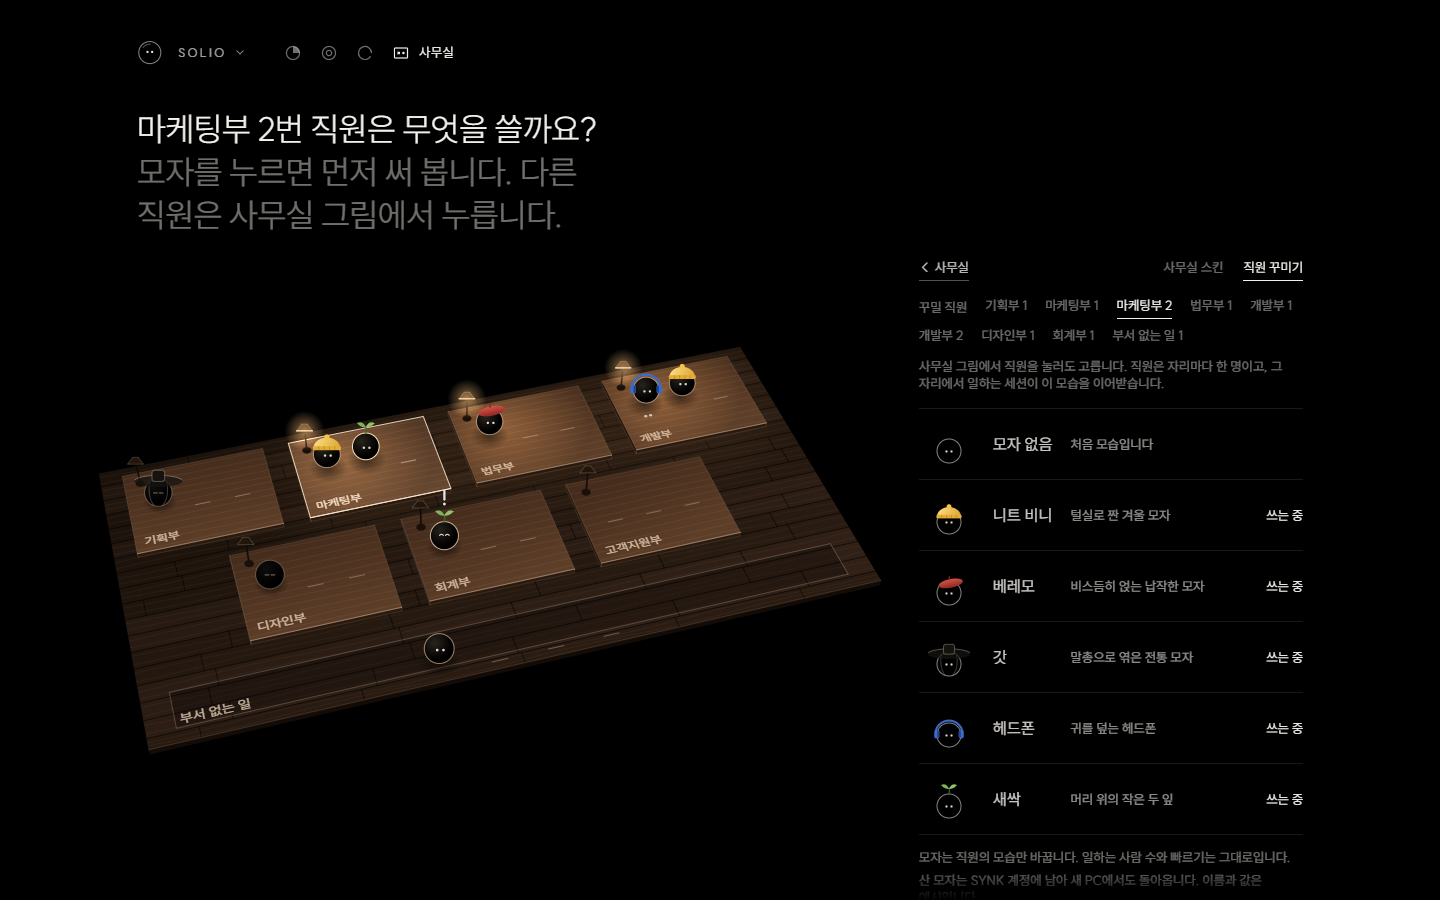
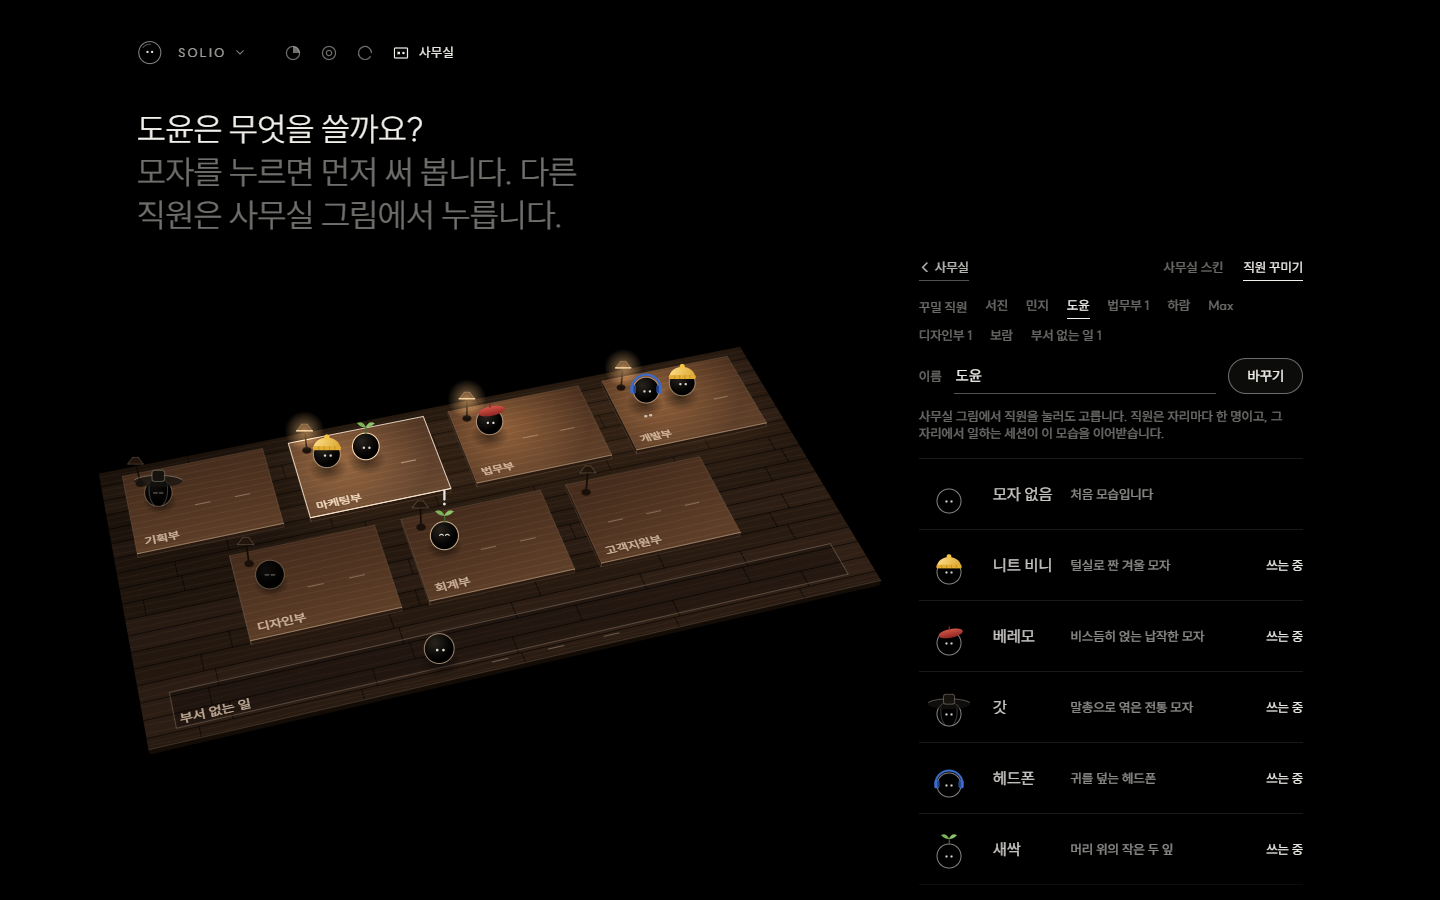
솔리오 사무실 꾸미기 시안: 직원 이름을 바꿀 수 있게 했다(유호님 11-23 「직원 이름도 바꿀수있게해줘」). 가게의 「직원 꾸미기」에서 고른 직원의 「이름」 칸을 고치고 「바꾸기」를 누른다. 처음 이름은 「마케팅부 2」이고 12자까지 무료다. 비우면 처음 이름으로 돌아간다. 바꾼 이름은 가게의 직원 줄, 맨 위 문장, 부서를 열었을 때의 직원 줄(이름 아래에 도구와 모델)에 쓰이고, 사무실 그림 위에는 쓰지 않는다. 「바꾸기」는 이름을 고쳤을 때만 흰 알약이 된다. 바꾸기 · 되돌리기 · 부서 줄 표시를 브라우저에서 확인했다. 

diff --git a/docs/디자인/솔리오_사무실스킨_20261123/스킨.html b/docs/디자인/솔리오_사무실스킨_20261123/스킨.html
@@ -140,6 +140,11 @@ button.row .mid{white-space:nowrap;overflow:hidden;text-overflow:ellipsis}
 .shop-tabs{display:flex;flex-wrap:wrap;gap:6px 20px}
 .pick-row{grid-column:1 / -1;margin:0;padding:0 0 10px;display:flex;flex-wrap:wrap;align-items:center;gap:8px 18px}
 .pick-row .lab{font:var(--small);color:var(--dim)}
+.name-form{grid-column:1 / -1;padding:0 0 14px}
+.name-form .lab{flex:none;font:var(--small);color:var(--dim)}
+/* 「바꾸기」는 글을 바꿨을 때만 흰 알약이 된다 */
+.give.name-form:has(input:not(:placeholder-shown)) .go{background:var(--pit);border-color:rgba(243,241,236,.42);color:var(--paper)}
+.give.name-form.dirty:has(input) .go{background:var(--paper);border-color:var(--paper);color:var(--void)}
 .pick-note{grid-column:1 / -1;margin:0;padding:0 0 16px;font:var(--small);color:var(--dim)}
 .row.skin .nm{display:inline-flex;align-items:center}
 #stage.shopping .room{top:calc(clamp(76px,12cqh,118px) - 22px);max-height:calc(100% - clamp(76px,12cqh,118px) + 22px);padding-top:22px;-webkit-mask-image:linear-gradient(transparent,#000 22px,#000 calc(100% - 30px),transparent);mask-image:linear-gradient(transparent,#000 22px,#000 calc(100% - 30px),transparent)}
@@ -516,7 +521,7 @@ const open = new Set(); let pinned = null, hotDept = null, hotStaff = null;
 function moreHTML(d, st) {
   let j = 0, h = '';
   for (const s of st) {
-    h += `<div class="row sub${s.state === 'ask' ? ' now' : ''}${alerting(s) ? ' news' : ''}" data-s="${s.id}" style="--j:${j++}"><span class="nm">${esc(s.tool)}${alerting(s) ? flag(s.newsT0 || -1e9) : ''}<small>${esc(s.model)}</small></span><span class="mid"><b>${esc(s.say)}</b><small>${esc(s.act)}</small></span><span class="when">${esc(s.when)}</span></div>`;
+    h += `<div class="row sub${s.state === 'ask' ? ' now' : ''}${alerting(s) ? ' news' : ''}" data-s="${s.id}" style="--j:${j++}"><span class="nm">${esc(nameFor(s) || s.tool)}${alerting(s) ? flag(s.newsT0 || -1e9) : ''}<small>${esc(nameFor(s) ? s.tool + ' · ' + s.model : s.model)}</small></span><span class="mid"><b>${esc(s.say)}</b><small>${esc(s.act)}</small></span><span class="when">${esc(s.when)}</span></div>`;
     if (s.state === 'ask') h += `<p class="more-acts" style="--j:${j++}"><button class="quiet warn" type="button" data-term="${s.id}">터미널 열기</button><span class="lab">승인은 그 도구의 창에서 합니다.</span></p>`;
   }
   if (d.lobby) {
@@ -708,7 +713,7 @@ function render(snap) {
   if (shopView) {
     rowsEl.innerHTML = shopHTML(snap); drawSwatches(); drawAccSwatches();
     officeEl.hidden = false; workEl.hidden = true; stage.classList.remove('planning'); stage.classList.add('shopping');
-    if (keep) { const el = document.getElementById(keep.id); if (el) el.focus(); }
+    if (keep) { const el = document.getElementById(keep.id); if (el) { el.value = keep.v || ''; el.focus(); try { el.setSelectionRange(keep.a, keep.a); } catch (e) {} } }
     requestAnimationFrame(() => rowsEl.querySelectorAll('.snap').forEach(m => m.classList.remove('snap')));
     return;
   }
@@ -801,8 +806,10 @@ function diagnose() {
     dT2 = setTimeout(() => { sayHold = null; render(true); }, 3400);
   }, 1500);
 }
+rowsEl.addEventListener('input', e => { if (e.target.id === 'char-name') e.target.closest('form').classList.toggle('dirty', e.target.value.trim() !== (charNames[pick] || '')); });
 rowsEl.addEventListener('submit', e => {
   e.preventDefault();
+  if (e.target.closest('form[data-name]')) { rename(e.target.querySelector('input').value); return; }
   const f = e.target.closest('form[data-give]'); if (!f) return;
   const id = f.dataset.give, inp = f.querySelector('input'), txt = inp.value.trim();
   if (!txt) { inp.focus(); return; }
@@ -1173,8 +1180,12 @@ let shopTab = 'room', accOwned = new Set(['none']), charAcc = {}, tryAcc = null,
 const keyOf = s => s.dept + ':' + s.seat;
 const trialOn = () => shopView && shopTab === 'staff';
 /* 직원 이름: 부서와 자리 번호(「마케팅부 1」) */
-const charName = k => { const [d, n] = k.split(':'); return `${deptOf(d).name} ${+n + 1}`; };
-const nameOf = () => charName(pick) + '번 직원';
+const defName = k => { const [d, n] = k.split(':'); return `${deptOf(d).name} ${+n + 1}`; };
+/* 직원 이름(유호님 11-23 「직원 이름도 바꿀수있게」): 바꾸지 않았으면 「마케팅부 2」, 바꿨으면 그 이름. 무료이고 12자까지 */
+let charNames = {};
+const charName = k => charNames[k] || defName(k);
+const nameOf = () => charNames[pick] || defName(pick) + '번 직원';
+const nameFor = s => charNames[keyOf(s)] || '';
 const staffInOrder = () => DEPTS.flatMap(d => staff.filter(s => s.dept === d.id).sort((a, b) => a.seat - b.seat));
 const fixPick = () => { if (!pick || !staff.some(s => keyOf(s) === pick)) { const f = staffInOrder()[0]; pick = f ? keyOf(f) : null; } };
 /* 그 직원이 지금 쓰는 모자: 가게에서 고른 직원이 써 보는 중이면 그것, 아니면 씌워 둔 것 */
@@ -1277,7 +1288,7 @@ function accMore(a) {
   let j = 0;
   let h = '';
   if (!pick) return `<p class="more-note" style="--j:0">꾸밀 직원이 없습니다.</p>`;
-  if (a.id === 'none') h += charAcc[pick] ? `<p class="more-acts" style="--j:${j++}"><button class="buy" type="button" data-wearacc="none">벗기기</button><button class="quiet" type="button" data-untry>원래대로</button></p>` : `<p class="more-note" style="--j:${j++}">${esc(nameOf())}은 모자를 쓰지 않았습니다.</p>`;
+  if (a.id === 'none') h += charAcc[pick] ? `<p class="more-acts" style="--j:${j++}"><button class="buy" type="button" data-wearacc="none">벗기기</button><button class="quiet" type="button" data-untry>원래대로</button></p>` : `<p class="more-note" style="--j:${j++}">${esc(은는(nameOf()))} 모자를 쓰지 않았습니다.</p>`;
   else if (accOwned.has(a.id)) h += `<p class="more-acts" style="--j:${j++}"><button class="buy" type="button" data-wearacc="${a.id}">씌우기</button><button class="quiet" type="button" data-untry>원래대로</button></p>`;
   else if (paying === 'acc:' + a.id) h += payingHTML(j++);
   else h += `<p class="more-acts" style="--j:${j++}"><button class="buy" type="button" data-buyacc="${a.id}">${won(a.price)}에 사기</button><button class="quiet" type="button" data-untry>원래대로</button></p>`
@@ -1290,6 +1301,7 @@ function shopHTML(snap) {
   if (shopTab === 'staff') {
     fixPick();
     h += `<p class="pick-row"><span class="lab">꾸밀 직원</span>${staffInOrder().map(s => { const k = keyOf(s); return `<button class="quiet" type="button" data-pick="${k}" aria-pressed="${pick === k}">${esc(charName(k))}</button>`; }).join('')}</p>`;
+    if (pick) h += `<form class="give name-form" data-name><label class="lab" for="char-name">이름</label><input id="char-name" type="text" maxlength="12" value="${esc(charNames[pick] || '')}" placeholder="${esc(defName(pick))}" autocomplete="off"><button class="go" type="submit">바꾸기</button></form>`;
     h += `<p class="pick-note">사무실 그림에서 직원을 눌러도 고릅니다. 직원은 자리마다 한 명이고, 그 자리에서 일하는 세션이 이 모습을 이어받습니다.</p>`;
     for (const a of ACCS) {
       const on = tryAcc === a.id, n = Object.values(charAcc).filter(x => x === a.id).length;
@@ -1323,6 +1335,13 @@ function buy(id) {
 }
 function wear(id) { worn = id; hold([`사무실을 ${으로(skinOf(id).name)} 바꿨습니다.`, '다른 PC에서도 같은 모습으로 열립니다.'], 3600); }
 /* 씌우기: 고른 곳(모든 부서이면 부서 없는 일까지)의 직원이 계속 쓴다. 「모자 없음」이면 벗는다 */
+function rename(v) {
+  if (!pick) return;
+  const t = v.trim().slice(0, 12);
+  if (!t || t === defName(pick)) { delete charNames[pick]; hold([`이름을 ${으로(defName(pick))} 되돌렸습니다.`, '부서 줄과 가게에서 처음 이름으로 부릅니다.'], 3600); }
+  else { charNames[pick] = t; hold([`이름을 ${으로(t)} 바꿨습니다.`, '부서 줄과 가게에서 이 이름으로 부릅니다.'], 3600); }
+  document.activeElement && document.activeElement.blur();
+}
 function putAcc(id) { if (!pick) return; if (id === 'none') delete charAcc[pick]; else charAcc[pick] = id; }
 function buyAcc(id) {
   paying = 'acc:' + id; render(true);
@@ -1554,7 +1573,7 @@ $('#m-ping').onclick = () => {
 };
 const SIZES = [['꽉 참'], ['1080×700', 1080, 700], ['720×760', 720, 760], ['420×760', 420, 760], ['380×250', 380, 250]];
 let si = 0; $('#m-size').onclick = e => { si = (si + 1) % SIZES.length; const z = SIZES[si]; document.body.classList.toggle('sized', !!z[1]); stage.style.setProperty('--sw', z[1] ? z[1] + 'px' : '100%'); stage.style.setProperty('--sh', z[1] ? z[2] + 'px' : '100%'); e.currentTarget.textContent = '창 크기 · ' + z[0]; };
-$('#m-again').onclick = () => { clearTimeout(payT); paying = null; owned = new Set(['black']); worn = 'black'; trying = null; accOwned = new Set(['none']); charAcc = {}; tryAcc = null; pick = null; setCase(ci); diagnose(); };
+$('#m-again').onclick = () => { clearTimeout(payT); paying = null; owned = new Set(['black']); worn = 'black'; trying = null; accOwned = new Set(['none']); charAcc = {}; charNames = {}; tryAcc = null; pick = null; setCase(ci); diagnose(); };
 $('#m-shop').onclick = () => shopView ? exitShop() : enterShop();
 const pcName = () => `PC · ${PCS[pi].cores}코어 ${PCS[pi].ram}GB`;
 $('#m-pc').onclick = e => { pi = (pi + 1) % PCS.length; e.currentTarget.textContent = pcName(); setCase(ci); diagnose(); };
@@ -1569,6 +1588,7 @@ const h0 = CASES.findIndex(c => location.hash.includes(c[0])); if (h0 > 0) ci = 
 /* 주소에 아무것도 없으면 스킨 가게에서 호두나무 서재를 입혀 본 채로 연다(이 시안의 첫 화면) */
 if (!location.hash.replace('#', '')) { shopView = true; trying = 'walnut'; ci = 1; }
 { const m = location.hash.match(/pick-([a-z]+)-(\d)/); if (m) pick = m[1] + ':' + m[2]; }
+if (/named/.test(location.hash)) Object.assign(charNames, {'plan:0':'서진', 'mkt:0':'민지', 'mkt:1':'도윤', 'dev:0':'하람', 'dev:1':'Max', 'acc:0':'보람'});
 if (/hats/.test(location.hash)) { Object.assign(charAcc, {'plan:0':'gat', 'mkt:0':'beanie', 'mkt:1':'sprout', 'law:0':'beret', 'dev:0':'phones', 'dev:1':'beanie', 'acc:0':'sprout'}); ['gat', 'beanie', 'phones', 'beret', 'sprout'].forEach(a => accOwned.add(a)); }
 { const m = location.hash.match(/shop-staff(?:-([a-z]+))?/); if (m) { shopView = true; shopTab = 'staff'; if (m[1] && accOf(m[1])) tryAcc = m[1]; } }
 if (/shop/.test(location.hash)) { shopView = true; const m = location.hash.match(/shop-([a-z]+)/); if (m && SK[m[1]]) trying = m[1]; }

diff --git a/docs/디자인/솔리오_사무실스킨_20261123/README.md b/docs/디자인/솔리오_사무실스킨_20261123/README.md
@@ -2,19 +2,20 @@
 
 솔리오 사무실의 겉모습(스킨)과 직원 꾸미기를 파는 가게의 시안이다. [사무실 시안](../솔리오_사무실_20261119/README.md)의 11-23 작업본을 복사해 가게를 더했다. 사무실 시안 원고와 PC 앱에는 아무것도 옮기지 않았다.
 
-유호님이 11-23에 하신 말씀은 차례로 넷이다.
+유호님이 11-23에 하신 말씀은 차례로 다섯이다.
 
 1. 「우리 솔리오 bm중에 사무실 스킨같은거 파려고하는데 이것도 초안 같이 만들어보는거 어때 ?」
 2. 「업무 스킨이나 그 직원들 모자씌우거나 커스텀 할수있는 기능 있었으면 좋겠네」
 3. 「캐릭터 한명에 하나씩 직원 꾸밀수있게 만들어줬으면 좋겠어」
 4. 「사무실 스킨은 호두나무 서재만 넣자 나머지는 너무 눈에 튄다」
+5. 「직원 이름도 바꿀수있게해줘」
 
 ## 보는 법
 
 - 아티팩트: <https://claude.ai/artifact/1syUpC17Nvv8fgG6aFW5iT> (올린 계정으로 로그인했을 때만 열린다)
 - 저장소에서는 `node tools/지면서버.js 8765`를 띄우고 `http://localhost:8765/docs/디자인/솔리오_사무실스킨_20261123/스킨.html`을 연다. 주소에 아무것도 없으면 가게에서 호두나무 서재를 입혀 본 채로 열린다.
-- 주소 끝에 붙이는 말: `#calm-worn-walnut`은 호두나무 서재를 산 사무실, `#rest-shop-walnut`은 모두 쉬는 사무실이다. `#calm-shop-staff-beanie`는 직원 꾸미기에서 니트 비니를 써 본 가게다(`beanie`, `beret`, `gat`, `phones`, `sprout`). `-pick-mkt-1`을 더하면 마케팅부 2번 직원을 고른 채로, `-hats`를 더하면 직원마다 모자를 씌운 채로 열린다.
-- 화면 아래 막대의 「스킨 가게」는 가게를 열고 닫는다. 「처음부터」는 산 스킨과 모자까지 지운다.
+- 주소 끝에 붙이는 말: `#calm-worn-walnut`은 호두나무 서재를 산 사무실, `#rest-shop-walnut`은 모두 쉬는 사무실이다. `#calm-shop-staff-beanie`는 직원 꾸미기에서 니트 비니를 써 본 가게다(`beanie`, `beret`, `gat`, `phones`, `sprout`). `-pick-mkt-1`을 더하면 마케팅부 2번 직원을 고른 채로, `-hats`를 더하면 직원마다 모자를 씌운 채로, `-named`를 더하면 직원마다 이름을 붙인 채로 열린다.
+- 화면 아래 막대의 「스킨 가게」는 가게를 열고 닫는다. 「처음부터」는 산 스킨과 모자, 바꾼 이름까지 지운다.
 - 아티팩트에 다시 올릴 때는 `node docs/디자인/솔리오_사무실스킨_20261123/아티팩트판.cjs <나갈 파일> --문서`로 구운 판을 `publish_files`로 올린다.
 
 ## 담은 것
@@ -28,7 +29,9 @@
    - 모자는 다섯이다. 니트 비니, 베레모, 갓, 헤드폰, 새싹이다. 첫 줄 「모자 없음」은 벗길 때 쓴다. 줄마다 검은 직원 하나가 그 모자를 쓴 견본이 있다.
    - 모자 줄을 누르면 고른 직원이 먼저 써 보고 웃는다. 다른 직원을 고르면 써 보던 모자가 그 직원에게 옮겨 간다.
    - 사지 않은 모자는 「1,900원에 사기」, 산 모자는 「씌우기」, 「모자 없음」은 「벗기기」다. 한 번 산 모자는 다른 직원에게도 더 내지 않고 씌운다.
-   - 직원은 자리마다 한 명이다. 그 자리에서 일하는 세션이 그 직원의 모습을 이어받는다.
+   - 고른 직원의 이름을 「이름」 칸에서 바꾼다. 처음 이름은 「마케팅부 2」이고, 12자까지 무료로 바꾼다. 칸을 비우고 「바꾸기」를 누르면 처음 이름으로 돌아간다. 「바꾸기」는 이름을 고쳤을 때만 흰 알약이 된다.
+   - 바꾼 이름은 가게의 직원 줄, 맨 위 문장(「도윤이 니트 비니를 써 보고 있습니다」), 부서를 열었을 때의 직원 줄에 쓰인다. 부서 줄에서는 이름 아래에 도구와 모델(「Claude Code · Sonnet」)이 선다. 사무실 그림 위에는 이름을 쓰지 않는다(이름표가 겹쳐 읽을 수 없다는 사무실 시안의 조사).
+   - 직원은 자리마다 한 명이다. 그 자리에서 일하는 세션이 그 직원의 모습과 이름을 이어받는다.
    - 승인을 기다리는 직원의 느낌표는 모자 위로 올라간다.
 6. **사기는 브라우저로 넘긴다.** 누르면 「브라우저에서 결제를 기다리고 있습니다」와 「취소」가 나온다. 시안에서는 2.2초 뒤 결제를 마친 것으로 치고, 맨 위 문장이 산 것을 말한다.
 7. **가게 맨 아래에 약속 두 줄이 있다.** 꾸미기는 모습만 바꾸고 일하는 사람 수와 빠르기는 그대로라는 것, 산 것은 SYNK 계정에 남아 새 PC에서도 돌아온다는 것이다.
@@ -40,7 +43,7 @@
 
 | | |
 |---|---|
-| 파는 것 | 사무실 스킨(바닥, 부서 자리, 빛)과 직원 모자. 직원의 구 모양 · 색 · 눈, 글과 단추, 기능은 바꾸지 않는다 |
+| 파는 것 | 사무실 스킨(바닥, 부서 자리, 빛)과 직원 모자. 직원 이름 바꾸기는 무료다. 직원의 구 모양 · 색 · 눈, 글과 단추, 기능은 바꾸지 않는다 |
 | 기능을 팔지 않는 까닭 | 사무실의 일은 손님의 Claude Code와 Codex 구독으로 돈다. OpenAI의 Sign in with ChatGPT 조건에 「손님이 돈을 내지 않아도 자기 요금제를 쓸 수 있어야 한다」가 있어, 맡기기나 인원을 유료판에 가두면 어긋난다([사용 정책 기록](../솔리오_사무실_20261119/문의글_사용정책.md)). 겉을 파는 것은 이 조건과 부딪치지 않는다 |
 | 값(제안) | 사무실 스킨 한 벌 4,900원, 모자 하나 1,900원(한 번 사면 모든 직원에게). 실제 돈으로 적고 코인 같은 가상 화폐를 두지 않는다. WORLD 가구 · 코스튬 상점(BM-6)에서 채택하신 원칙을 솔리오에도 쓰자는 제안이다 |
 | 우리 비용 | 그림은 손님 PC에서 코드로 그린다. 서버와 AI 비용이 없고, 드는 것은 짓는 시간과 결제 수수료다 |
@@ -107,7 +110,7 @@
 
 ## 캡처
 
-`캡처/`의 1, 2, 5, 6은 1440 × 900 판이다. 1은 호두나무 서재를 입혀 본 가게, 2는 모두 쉬는 사무실, 5는 마케팅부 1번 직원이 니트 비니를 써 본 모습, 6은 직원마다 다른 모자를 씌운 사무실이다. 3은 호두나무 서재로 바뀌는 순간의 시간 띠(0, 0.08, 0.16, 0.24, 0.33, 0.8초)다. 4와 7은 좁은 창(420 × 760)이다.
+`캡처/`의 1, 2, 5, 6, 8은 1440 × 900 판이다. 1은 호두나무 서재를 입혀 본 가게, 2는 모두 쉬는 사무실, 5는 마케팅부 1번 직원이 니트 비니를 써 본 모습, 6은 직원마다 다른 모자를 씌운 사무실이다. 3은 호두나무 서재로 바뀌는 순간의 시간 띠(0, 0.08, 0.16, 0.24, 0.33, 0.8초)다. 4와 7은 좁은 창(420 × 760)이다. 6은 직원마다 이름을 붙인 판이고, 8은 마케팅부를 열어 바꾼 이름이 부서 줄에 선 모습이다.
 
 ## 아직 아닌 것
 
